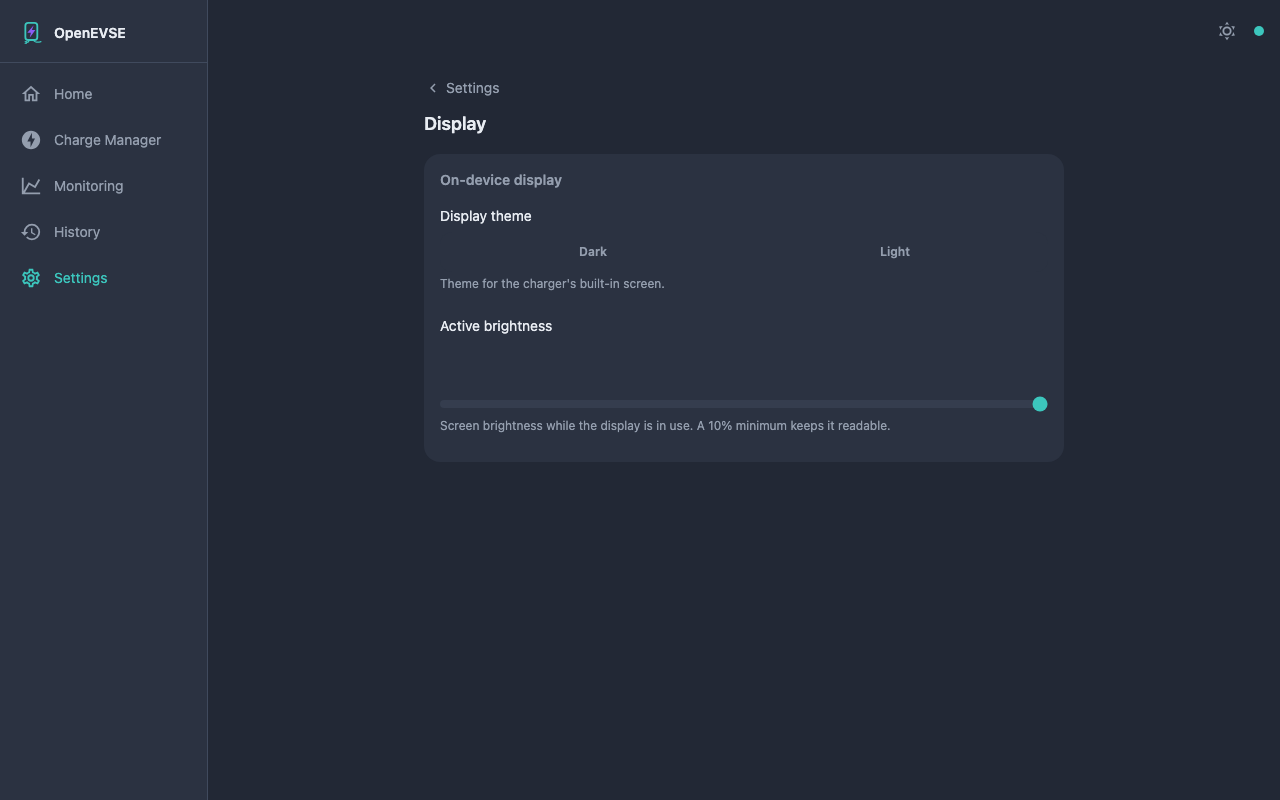
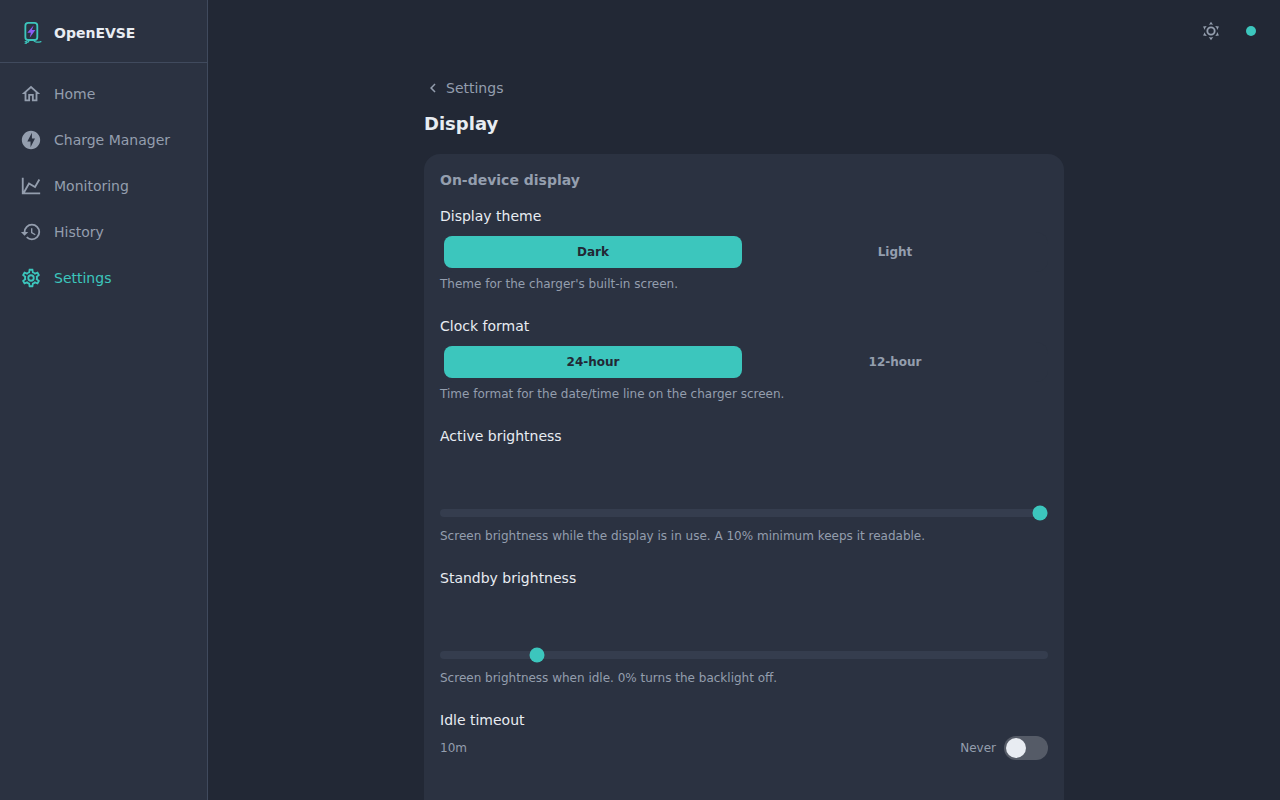
display: offer the backlight idle timeout on 2-line LCD chargers
`lcd_backlight_timeout` is one firmware key shared by both on-device
displays, but the slider only rendered inside the TFT section, so a
classic V6 / JuiceBox v2 conversion with the character LCD never saw
it. Render it once via a snippet: in the TFT section when there is a
TFT, otherwise in the 2-line LCD section with copy describing a
backlight that switches off (RAPI $FB 0) rather than dims to standby.

Pairs with the firmware change that makes the char-LCD driver honour
the key (OpenEVSE/openevse_esp32_firmware#8).

Also fixes the stale `display` mock scenario (keys that no longer
exist, brightness over 100%) and adds a `display_lcd` scenario plus a
`settings-display-lcd` screenshot.

diff --git a/src/routes/settings/Display.svelte b/src/routes/settings/Display.svelte
@@ -70,6 +70,12 @@
   // Idle timeout, seconds. 0 = never sleep (Never toggle). The slider works in
   // 5–3600s; we remember the last non-zero value so toggling Never off restores
   // a sensible position rather than snapping to the floor.
+  //
+  // `lcd_backlight_timeout` is one firmware key shared by both displays: the
+  // TFT dims to its standby brightness, the 2-line LCD's RGB backlight simply
+  // switches off (RAPI $FB 0). It's rendered once — in the TFT section when
+  // there is a TFT, else in the LCD section with copy describing an
+  // on/off backlight rather than a dimming one.
   let timeout = $derived(cfg.lcd_backlight_timeout ?? 600)
   let never = $derived(timeout === 0)
   let lastSecs = $state(600)
@@ -154,33 +160,7 @@
     {/if}
 
     {#if hasTimeout}
-      <FormField
-        label={$_('config.display.timeout')}
-        description={$_('config.display.timeout_desc')}
-        status={$ss.lcd_backlight_timeout ?? 'idle'}
-      >
-        <div class="flex items-center justify-between gap-3">
-          <span class="text-xs text-text-dim">{fmtTimeout(sliderSecs)}</span>
-          <label class="flex items-center gap-2 text-xs text-text-dim">
-            {$_('config.display.never')}
-            <Toggle
-              checked={never}
-              label={$_('config.display.never')}
-              onchange={setNever}
-            />
-          </label>
-        </div>
-        <Slider
-          min={5}
-          max={3600}
-          step={5}
-          value={sliderSecs}
-          disabled={never}
-          format={fmtTimeout}
-          ariaLabel={$_('config.display.timeout')}
-          onchange={(v) => form.saveField('lcd_backlight_timeout', v)}
-        />
-      </FormField>
+      {@render timeoutField($_('config.display.timeout_desc'))}
     {/if}
   </ConfigSection>
   {/if}
@@ -198,6 +178,40 @@
           onchange={(v) => form.saveField('lcd_type', v)}
         />
       </FormField>
+
+      {#if hasTimeout && !hasTft}
+        {@render timeoutField($_('config.display.lcd_timeout_desc'))}
+      {/if}
     </ConfigSection>
   {/if}
 </ConfigPage>
+
+{#snippet timeoutField(description)}
+  <FormField
+    label={$_('config.display.timeout')}
+    {description}
+    status={$ss.lcd_backlight_timeout ?? 'idle'}
+  >
+    <div class="flex items-center justify-between gap-3">
+      <span class="text-xs text-text-dim">{fmtTimeout(sliderSecs)}</span>
+      <label class="flex items-center gap-2 text-xs text-text-dim">
+        {$_('config.display.never')}
+        <Toggle
+          checked={never}
+          label={$_('config.display.never')}
+          onchange={setNever}
+        />
+      </label>
+    </div>
+    <Slider
+      min={5}
+      max={3600}
+      step={5}
+      value={sliderSecs}
+      disabled={never}
+      format={fmtTimeout}
+      ariaLabel={$_('config.display.timeout')}
+      onchange={(v) => form.saveField('lcd_backlight_timeout', v)}
+    />
+  </FormField>
+{/snippet}

diff --git a/src/routes/settings/__tests__/Display.test.js b/src/routes/settings/__tests__/Display.test.js
@@ -64,6 +64,34 @@ describe('Display page', () => {
     expect(getByText('config.display.lcd_mono')).toHaveAttribute('aria-pressed', 'true')
   })
 
+  it('shows the backlight timeout in the LCD section on an LCD-only charger', async () => {
+    // Issue #8: the char-LCD driver honours lcd_backlight_timeout too, so a
+    // classic V6 with no TFT gets the same slider, described for a backlight
+    // that switches off rather than dims.
+    config_store.set({ lcd_type: 'rgb', lcd_backlight_timeout: 300 })
+    const { getByLabelText, getByText, queryByText } = render(Display)
+    const slider = getByLabelText('config.display.timeout')
+    expect(slider).toHaveValue('300')
+    expect(getByText('config.display.lcd_timeout_desc')).toBeInTheDocument()
+    expect(queryByText('config.display.timeout_desc')).toBeNull()
+    await fireEvent.change(slider, { target: { value: '120' } })
+    expect(httpAPI).toHaveBeenCalledWith('POST', '/config', JSON.stringify({ lcd_backlight_timeout: 120 }))
+  })
+
+  it('hides the backlight timeout on an LCD-only charger whose firmware lacks the key', () => {
+    config_store.set({ lcd_type: 'rgb' })
+    const { queryByLabelText } = render(Display)
+    expect(queryByLabelText('config.display.timeout')).toBeNull()
+  })
+
+  it('shows the timeout once, in the TFT section, when a device has both displays', () => {
+    config_store.set({ tft_theme: 'dark', lcd_type: 'rgb', lcd_backlight_timeout: 600 })
+    const { getAllByLabelText, getByText, queryByText } = render(Display)
+    expect(getAllByLabelText('config.display.timeout')).toHaveLength(1)
+    expect(getByText('config.display.timeout_desc')).toBeInTheDocument()
+    expect(queryByText('config.display.lcd_timeout_desc')).toBeNull()
+  })
+
   it('defaults the 2-line LCD selector to RGB and writes on change', async () => {
     config_store.set({ lcd_type: 'rgb' })
     const { getByText } = render(Display)

diff --git a/scripts/screenshots.config.js b/scripts/screenshots.config.js
@@ -66,6 +66,7 @@ const entries = [
   { name: 'settings-certificates', route: '/settings/certificates' },
   { name: 'settings-terminal', route: '/settings/terminal' },
   { name: 'settings-display', route: '/settings/display', scenario: 'display' },
+  { name: 'settings-display-lcd', route: '/settings/display', scenario: 'display_lcd' },
   { name: 'settings-about', route: '/settings/about' },
 ]
 
